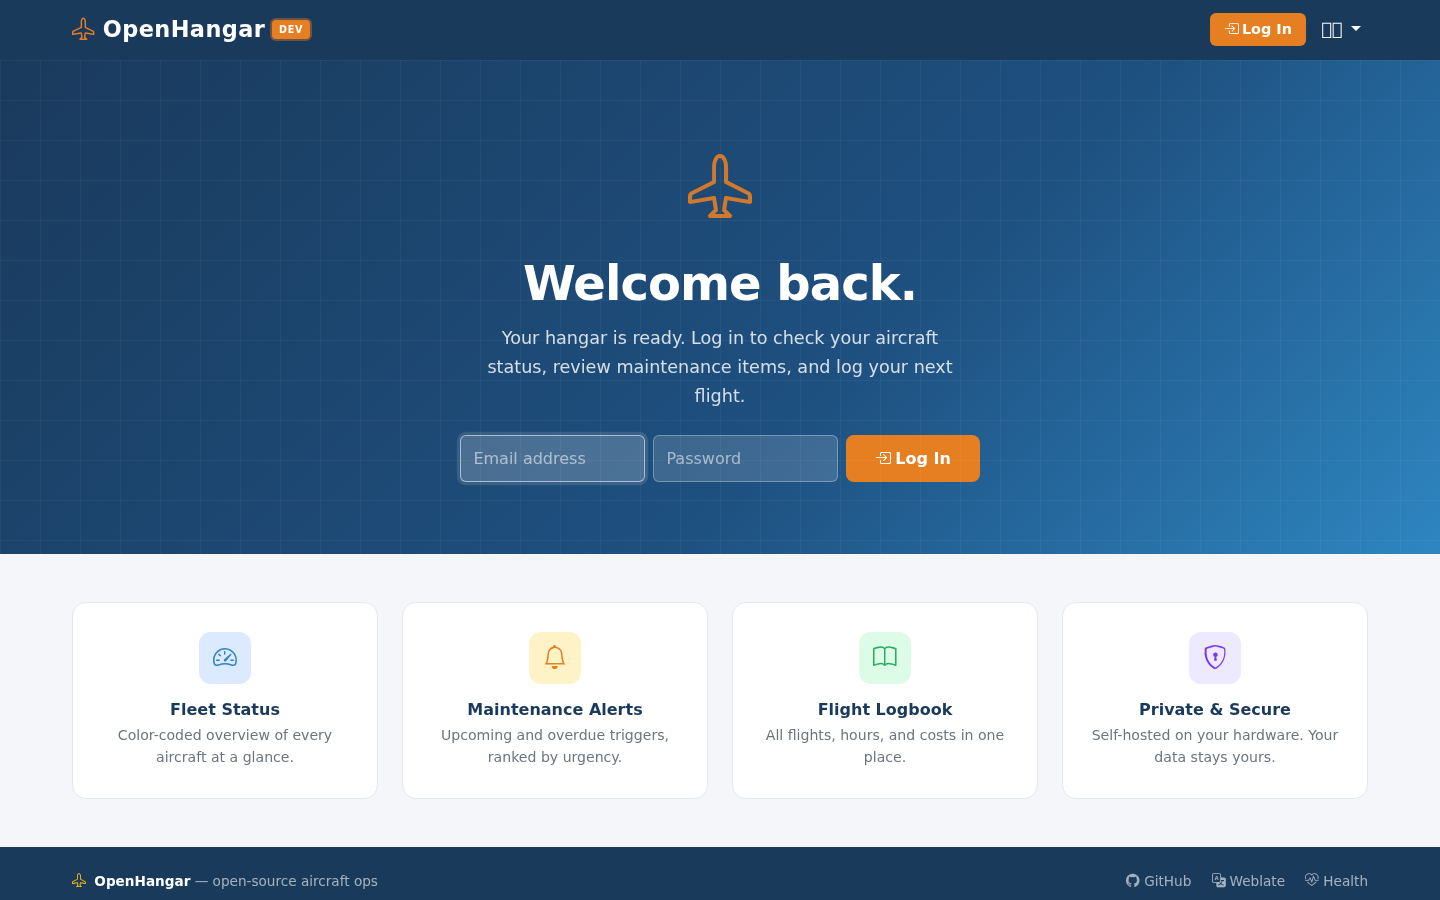
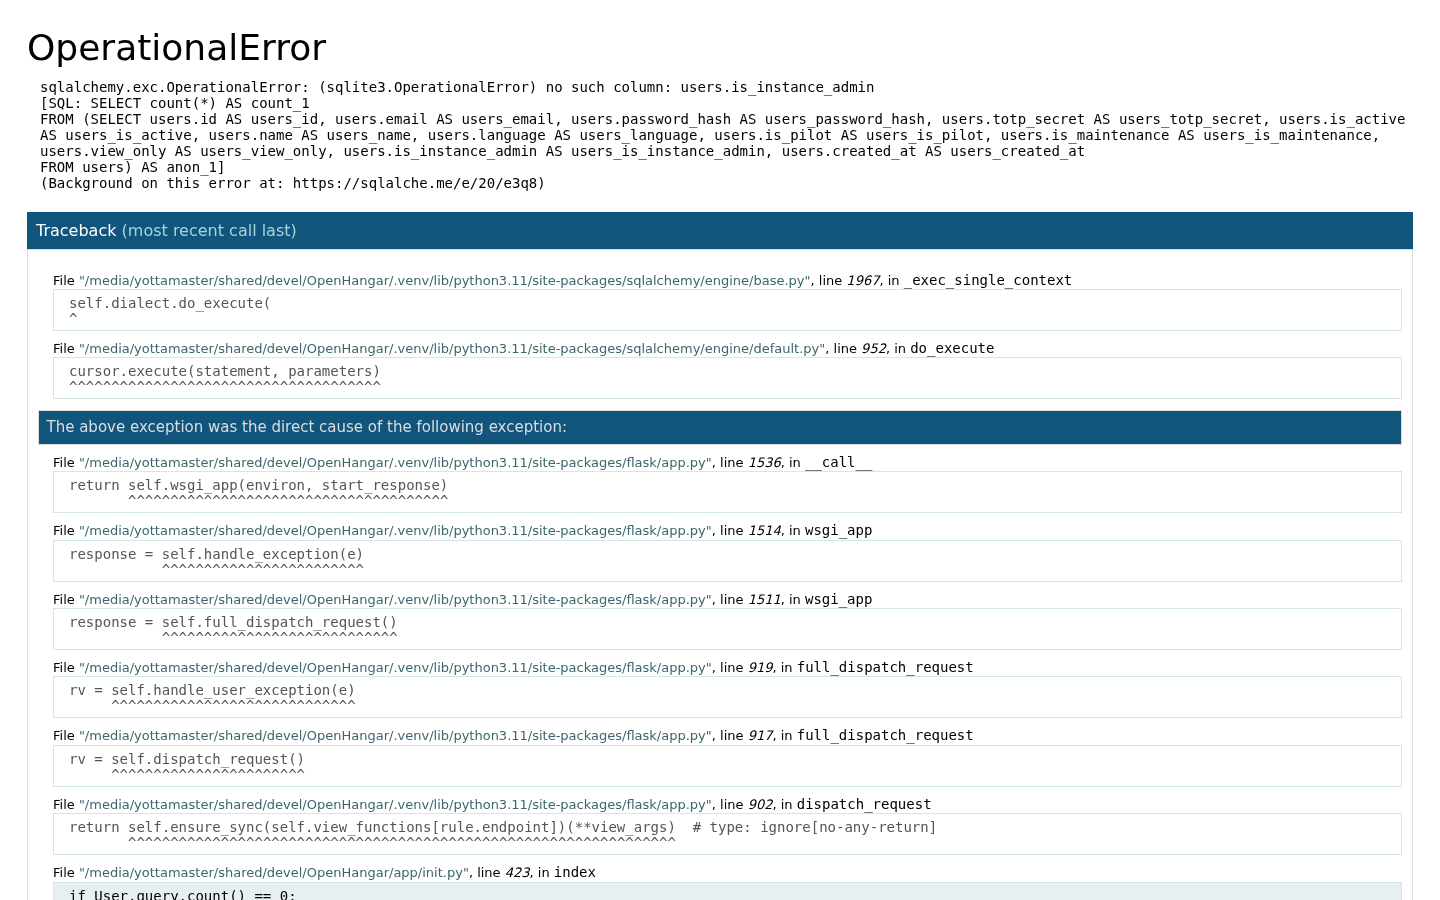
fix(migration): use uppercase enum values in Phase 29 instance-admin promotion query
The PostgreSQL role enum type stores uppercase labels ('ADMIN', 'OWNER')
as defined in the baseline migration. The promotion query was using lowercase
values which PostgreSQL rejected as invalid enum input.

diff --git a/app/migrations/versions/f6a7b8c9d0e1_phase29_instance_admin.py b/app/migrations/versions/f6a7b8c9d0e1_phase29_instance_admin.py
@@ -52,7 +52,7 @@ def upgrade() -> None:
             SELECT u.id
             FROM users u
             JOIN tenant_users tu ON tu.user_id = u.id
-            WHERE tu.role IN ('admin', 'owner')
+            WHERE tu.role IN ('ADMIN', 'OWNER')
               AND u.is_active = TRUE
             ORDER BY u.created_at ASC
             LIMIT 1

diff --git a/app/dev_seed.py b/app/dev_seed.py
@@ -61,6 +61,7 @@ def seed() -> None:
             password_hash=bcrypt.hashpw(password.encode(), bcrypt.gensalt()).decode(),
             totp_secret=_DEV_TOTP_SECRET if is_admin else None,
             is_active=True,
+            is_instance_admin=is_admin,
             name=name,
             **({"language": language} if language else {}),
         )

diff --git a/docs/self-hosting.md b/docs/self-hosting.md
@@ -182,6 +182,39 @@ These labels are already included in the reference `docker/docker-compose.yml`.
 
 ---
 
+## Multi-tenant deployments
+
+A single OpenHangar installation can serve multiple completely independent organisations (tenants) from one database and one Docker container.  Each tenant has its own fleet, users, and data — tenants cannot see each other's information.
+
+This is entirely optional.  If you only ever need one organisation, the multi-tenant UI never appears and the experience is identical to a single-tenant install.
+
+### Instance admin
+
+The very first user created during the setup wizard is automatically designated the **instance admin**.  The instance admin is a cross-tenant super-user: they provision new tenants and handle emergencies, but they do not need a seat inside every tenant.
+
+The instance admin manages tenants from **Configuration → Tenants**:
+
+![Tenant list](screenshots/config_tenants.png)
+
+The tenant table shows each organisation's name, creation date, number of users, number of aircraft, and active/inactive status.  From this page the instance admin can:
+
+- **Deactivate / reactivate** a tenant — deactivated tenants cannot log in; their data is preserved and can be restored at any time.
+- **Reset the admin password** of any OWNER or ADMIN user within a tenant — generates a short-lived one-time token that is displayed on screen.  No email is required; relay the token to the tenant admin out-of-band (e.g. by phone or messaging).  The token forces a password change on first use and expires after 24 hours.
+
+### Provisioning a new tenant
+
+Click **Add tenant** (or **Add a second tenant** from the Settings page if this is your first expansion) to open the create-tenant form:
+
+![Create tenant form](screenshots/config_tenants_create.png)
+
+Fill in the tenant name, the operating model, and the email address of the person who will be the tenant's OWNER.  OpenHangar creates the organisation and sends an invitation link — the new owner follows the link to set a password and gets full access to their own independent tenant.
+
+### Existing installations
+
+If you upgrade an existing single-tenant installation to a version that includes multi-tenant support, the Alembic migration automatically promotes the oldest OWNER or ADMIN user to instance admin.  No manual steps are required.
+
+---
+
 ## Security notes
 
 - Set `SECRET_KEY` to a long random string; never use the default in production.

diff --git a/docs/user-guide.md b/docs/user-guide.md
@@ -41,7 +41,7 @@ Each person you then invite to your installation is assigned a **role** that con
 - **Fleet management** — model airframe, engines, props, and avionics; lightweight placeholders for quick onboarding.
 - **Maintenance tracking** — calendar, hours, and cycles-based triggers with a clear green/yellow/red dashboard status.
 - **Flight logging** — hobbs/tach entries, optional photo proofs of instrument readings, automatic logbook updates.
-- **Pilot logbook** — personal logbook with EASA FCL.050 column mapping and passenger/night currency tracking.
+- **Pilot logbook** — personal logbook with EASA FCL.050 column mapping, passenger/night currency tracking, and bulk import from CSV or Excel.
 - **Document management** — attach PDFs and photos to aircraft, components, and logbook entries; sensitive-document controls hide files from renter/viewer roles.
 - **Cost tracking** — per-flight and periodic expenses; L/gal unit conversion; cost-per-hour calculations.
 - **Encrypted backups** — AES-256-GCM daily backups with SHA-256 verification (see [backup & restore guide](backup_restore.md)).
@@ -103,6 +103,29 @@ The **Pilot logbook** view shows your personal flight history with EASA FCL.050 
 The **Mass & balance** page lets you record and verify CG position before a flight:
 
 ![Mass & balance calculation](screenshots/wb_calc.png)
+
+### Importing an existing pilot logbook
+
+If you have a previous logbook in a spreadsheet (CSV or Excel), OpenHangar can import it in a few steps:
+
+1. Navigate to **Pilot → Import logbook**.
+2. Upload your CSV or Excel file.
+
+![Pilot logbook import — upload step](screenshots/pilot_logbook_import_upload.png)
+
+3. Map each column in your file to the corresponding OpenHangar logbook field using the dropdown selectors.  OpenHangar remembers the mapping the next time you upload a file with the same structure, and pre-fills the dropdowns automatically with a notice "recognised from a previous import — please verify".
+4. *(Optional)* If your file does not cover your full flying history, check **"I already had hours before this file starts"** and enter cumulative totals for each time category.  OpenHangar will create a single synthetic "Opening balance" entry dated one day before the earliest imported row.
+5. Review the import summary: rows imported, subtotal rows skipped, and any rows that could not be parsed (with the reason).  Click **Confirm** to save.
+
+Sub-total rows (rows where the date cell contains "TOTAL", is blank, or contains a running sum) are detected and skipped automatically — they do not need to be removed from the file beforehand.
+
+#### Import history and rollback
+
+Every import is recorded on the **Pilot → Import history** page.  If you imported incorrect data, click **Delete this import** to remove all entries that belong to that batch in one operation — your manually-entered entries are never affected.
+
+![Pilot logbook import history](screenshots/pilot_logbook_import_history.png)
+
+---
 
 ### Monitoring maintenance
 